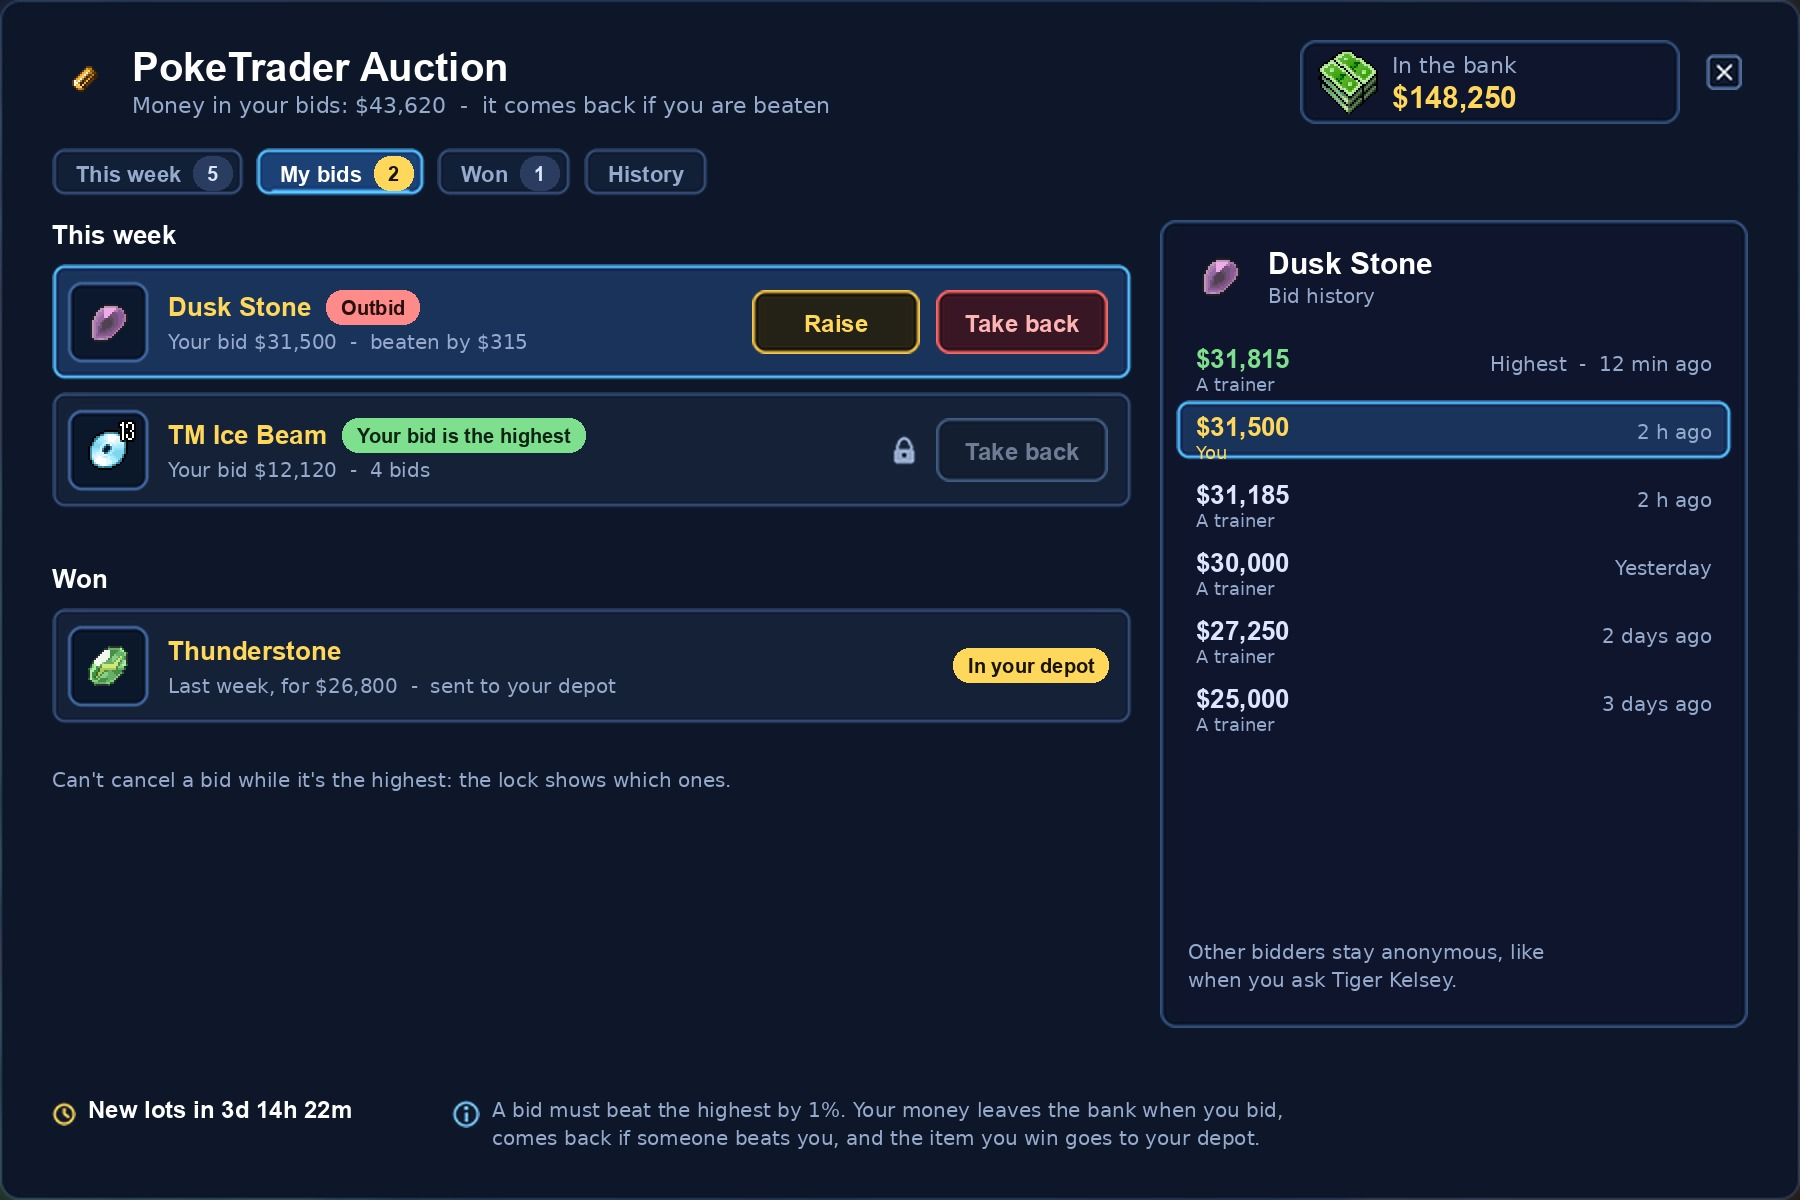
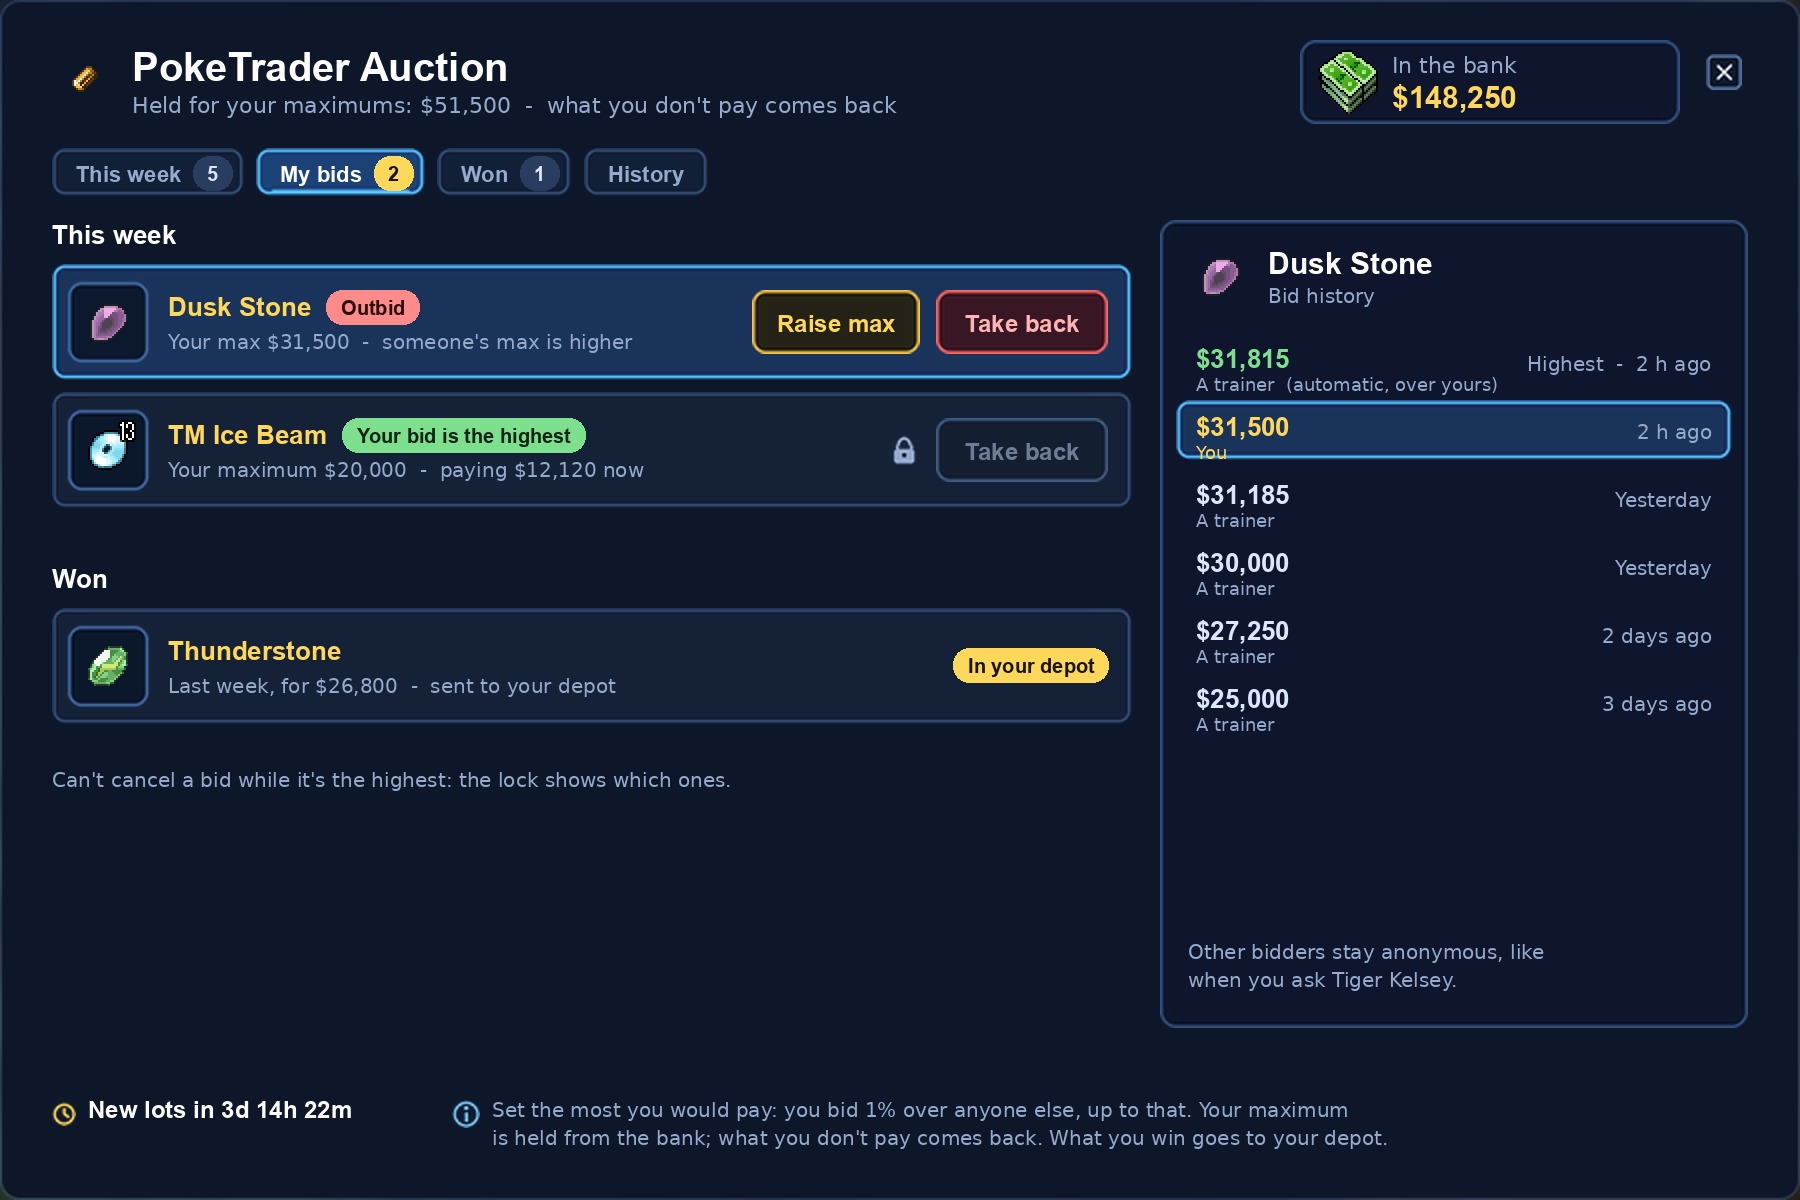
PokeTrader concept: maximum bids that raise themselves 1% at a time

diff --git a/scripts/art/poketrader_concept.py b/scripts/art/poketrader_concept.py
@@ -209,8 +209,8 @@ def footer(p, x, y, w):
     p.picture('game_dailytasks/images/icon_clock', x, y + 3, 12)
     p.text(x + 18, y, 'New lots in 3d 14h 22m', 12, WHITE, 'bold')
     p.picture('game_dailytasks/images/icon_info', x + 200, y + 2, 14)
-    p.text(x + 220, y + 1, 'A bid must beat the highest by 1%. Your money leaves the bank when you bid,', 10, MUTED)
-    p.text(x + 220, y + 15, 'comes back if someone beats you, and the item you win goes to your depot.', 10, MUTED)
+    p.text(x + 220, y + 1, 'Set the most you would pay: you bid 1% over anyone else, up to that. Your maximum', 10, MUTED)
+    p.text(x + 220, y + 15, 'is held from the bank; what you don\'t pay comes back. What you win goes to your depot.', 10, MUTED)
 
 
 def auction(r):
@@ -237,17 +237,17 @@ def auction(r):
     sx, sw = dx + 14, dw - 28
     stat(p, sx, dy + 140, sw, 'Minimum bid', dollars(minimum))
     stat(p, sx, dy + 160, sw, 'Highest bid', dollars(highest), GREEN)
-    stat(p, sx, dy + 180, sw, 'Your bid', dollars(31500), RED)
+    stat(p, sx, dy + 180, sw, 'Your maximum', dollars(31500), RED)
     stat(p, sx, dy + 200, sw, 'Bids', str(bids))
     p.d.line([(sx * S, (dy + 224) * S), ((sx + sw) * S, (dy + 224) * S)], fill='#34507a', width=S)
-    p.text(sx, dy + 234, 'Raise your bid to', 11, MUTED)
+    p.text(sx, dy + 234, 'Your maximum  -  we bid for you, up to this', 11, MUTED)
     p.nine('client_entergame/images/field_focus', sx, dy + 252, sw, 30, 8)
     p.text(sx + 10, dy + 267, dollars(next_bid(highest, minimum)), 13, WHITE, 'bold', 'lm')
-    p.text(sx + sw - 10, dy + 267, 'lowest you can bid', 10, MUTED, anchor='rm')
+    p.text(sx + sw - 10, dy + 267, 'at least', 10, MUTED, anchor='rm')
     qx = sx
     for label in ('Lowest', '+5%', '+10%'):
         qx += p.chip(qx, dy + 290, label) + 6
-    p.button('green', sx, dy + 324, sw, 32, 'Raise bid  (+' + dollars(next_bid(highest, minimum) - 31500) + ')', WHITE)
+    p.button('green', sx, dy + 324, sw, 32, 'Raise maximum  (+' + dollars(next_bid(highest, minimum) - 31500) + ' held)', WHITE)
     p.button('red', sx, dy + 362, sw, 30, 'Take my bid back', '#ffb4b4')
     footer(p, x0, H - 52, x1 - x0)
     p.save(os.path.join(OUT, 'auction.jpg'), BACKDROP)
@@ -258,13 +258,13 @@ def my_bids(r):
     p = Painter(W, H, S, r)
     p.nine('game_dailytasks/images/window', 0, 0, W, H, 24)
     x0, y0, x1 = 26, 24, W - 26
-    header(p, x0, y0, x1 - x0, 'Money in your bids: ' + dollars(31500 + 12120) + '  -  it comes back if you are beaten')
+    header(p, x0, y0, x1 - x0, 'Held for your maximums: ' + dollars(31500 + 20000) + '  -  what you don\'t pay comes back')
     cx = x0
     for label, count, on in (('This week', 5, False), ('My bids', 2, True), ('Won', 1, False), ('History', None, False)):
         cx += p.chip(cx, y0 + 50, label, count, on) + 6
     lx, lw, ly = x0, 540, y0 + 86
     p.text(lx, ly, 'This week', 13, WHITE, 'bold')
-    rows = [(LOTS[0], 'Your bid $31,500  -  beaten by $315', True), (LOTS[1], 'Your bid $12,120  -  4 bids', False)]
+    rows = [(LOTS[0], 'Your max $31,500  -  someone\'s max is higher', True), (LOTS[1], 'Your maximum $20,000  -  paying $12,120 now', False)]
     for i, (lot, note, selected) in enumerate(rows):
         sid, name, kind, minimum, highest, bids, state = lot
         y = ly + 22 + i * 64
@@ -275,7 +275,7 @@ def my_bids(r):
         p.text(lx + 58, y + 33, note, 10, MUTED)
         status_tag(p, lx + 66 + p.width(name, 13, 'bold'), y + 13, state, highest)
         if state == 'outbid':
-            p.button('gold', lx + lw - 190, y + 13, 84, 32, 'Raise', GOLD)
+            p.button('gold', lx + lw - 190, y + 13, 84, 32, 'Raise max', GOLD)
             p.button('red', lx + lw - 98, y + 13, 86, 32, 'Take back', '#ffb4b4')
         else:
             p.button('red', lx + lw - 98, y + 13, 86, 32, 'Take back', '#ffb4b4', off=True)
@@ -297,7 +297,7 @@ def my_bids(r):
     p.item(r['otb'].client_id(sid), dx + 14, dy + 12)
     p.text(dx + 54, dy + 13, name, 15, WHITE, 'bold')
     p.text(dx + 54, dy + 32, 'Bid history', 10, MUTED)
-    history = [(31815, '12 min ago', False), (31500, '2 h ago', True), (31185, '2 h ago', False),
+    history = [(31815, '2 h ago', False), (31500, '2 h ago', True), (31185, 'Yesterday', False),
                (30000, 'Yesterday', False), (27250, '2 days ago', False), (25000, '3 days ago', False)]
     for i, (amount, when, you) in enumerate(history):
         y = dy + 60 + i * 34
@@ -305,7 +305,7 @@ def my_bids(r):
             p.nine('game_fishing/images/row_on', dx + 8, y - 4, dw - 16, 30, 8)
         top = i == 0
         p.text(dx + 18, y + 2, dollars(amount), 13, GREEN if top else (GOLD if you else TEXT), 'bold')
-        p.text(dx + 18, y + 4 + 13, 'You' if you else 'A trainer', 9, GOLD if you else MUTED)
+        p.text(dx + 18, y + 4 + 13, 'You' if you else ('A trainer  (automatic, over yours)' if i == 0 else 'A trainer'), 9, GOLD if you else MUTED)
         p.text(dx + dw - 18, y + 6, ('Highest  -  ' if top else '') + when, 10, MUTED, anchor='ra')
     p.text(dx + 14, dy + dh - 44, 'Other bidders stay anonymous, like', 10, MUTED)
     p.text(dx + 14, dy + dh - 30, 'when you ask Tiger Kelsey.', 10, MUTED)
@@ -336,14 +336,14 @@ def phone(r):
     p.nine('game_fishing/images/panel', dx, dy, dw, dh, 10)
     p.item(r['otb'].client_id(sid), dx + 14, dy + 12, 40)
     p.text(dx + 64, dy + 14, name, 15, WHITE, 'bold')
-    p.text(dx + 64, dy + 34, 'Highest ' + dollars(highest) + '  -  yours ' + dollars(31500), 10, MUTED)
+    p.text(dx + 64, dy + 34, 'Highest ' + dollars(highest) + '  -  your max ' + dollars(31500), 10, MUTED)
     sx, sw = dx + 14, dw - 28
     p.nine('client_entergame/images/field_focus', sx, dy + 70, sw, 40, 8)
     p.text(sx + 12, dy + 90, dollars(next_bid(highest, minimum)), 15, WHITE, 'bold', 'lm')
     qx = sx
     for label in ('Lowest', '+5%', '+10%'):
         qx += p.chip(qx, dy + 120, label) + 8
-    p.button('green', sx, dy + 156, sw, 44, 'Raise bid', WHITE)
+    p.button('green', sx, dy + 156, sw, 44, 'Raise maximum', WHITE)
     p.button('red', sx, dy + 210, sw, 40, 'Take my bid back', '#ffb4b4')
     p.save(os.path.join(OUT, 'phone.jpg'), BACKDROP)
 

diff --git a/docs/concepts/poketrader/README.md b/docs/concepts/poketrader/README.md
@@ -21,6 +21,30 @@ pictures, run `scripts/art/poketrader_concept.py`.
 - Optional: a PokeGear button that opens the window from anywhere, either only to look or also to bid.
   This needs a decision (see the open questions).
 
+## Maximum bids
+
+You don't bid an amount. You set the most you'd pay (your **maximum**), and the auction bids for
+you: always just 1% over the next trainer, never more than your maximum. This is how eBay works.
+
+- When you set a maximum, the price only goes up as far as needed to put you on top: 1% over
+  the current price, or 1% over the second-highest maximum if someone else already has one.
+- When another trainer bids, your bid automatically goes 1% over theirs, until that would pass your
+  maximum. Then they lead, at 1% over your maximum (capped at their own), and you get the outbid
+  message.
+- If two maximums are the same, or within 1% of each other, the one set first keeps the lead.
+- Nobody else sees your maximum. They only see the price.
+- The whole maximum is held from your bank when you set it, so the money is always there, as it is
+  today. When the week ends, the winner pays the price and gets the rest back. Everyone else gets
+  all of their maximum back.
+- You can raise your maximum at any time. You can only lower it, or take your bid back, while
+  someone else is leading.
+- Example: you set $40,000 on a Dusk Stone with a minimum of $25,000. The price is $25,000 and
+  $40,000 is held. Another trainer sets $30,000, and the price jumps to $30,300 with you still
+  leading. A third trainer sets $45,000, and the price becomes $40,400 with them leading. Your
+  $40,000 goes back to your bank.
+- In the chat, "Dusk Stone 40000" sets your maximum, so Tiger Kelsey keeps working without the
+  window.
+
 ## This week
 
 - The window shows one row per lot: the item, what kind of lot it is (rare evolution item,
@@ -29,22 +53,23 @@ pictures, run `scripts/art/poketrader_concept.py`.
 - Each row can carry a tag: **Outbid**, **Your bid is the highest**, **No bids yet**, or
   **You already have one**. The last tag is for the Blue Flute, which each trainer can buy only once;
   that row is greyed out.
-- Clicking a lot shows its details on the right: the minimum bid, the highest bid, your bid and
-  the number of bids. Below them is the bid box, filled in with the lowest bid allowed (the highest
-  bid plus 1%), and buttons to set it to that lowest bid, +5% or +10%.
-- **Place bid** or **Raise bid** shows how much more money will leave your bank.
+- Clicking a lot shows its details on the right: the minimum bid, the highest bid, your maximum
+  and the number of bids. Below them is the maximum box, filled in with the lowest allowed (the
+  price plus 1%), and buttons to set it to that lowest amount, +5% or +10%.
+- **Place bid** or **Raise maximum** shows how much more money will be held from your bank.
   **Take my bid back** only works while your bid is not the highest, which is the same rule as today.
 - The top right shows your bank balance. The bottom shows when the new lots arrive, plus a one-line
   reminder of the rules.
 
 ## My bids
 
-- This tab shows your bids this week. **Raise** is available when you've been outbid. **Take back**
+- This tab shows your bids this week, with your maximum and the price you're paying now.
+  **Raise max** is available when you've been outbid. **Take back**
   is locked while your bid is the highest.
-- The header shows how much money is currently tied up in your bids.
+- The header shows how much money is held for your maximums.
 - **Won** lists the items you've won and says they were sent to your depot.
 - On the right is the bid history of the selected lot: amounts and times, with your own bids
-  highlighted. Other bidders stay anonymous ("A trainer"), just as Tiger Kelsey never names them.
+  highlighted and the automatic ones marked. Other bidders stay anonymous ("A trainer"), just as Tiger Kelsey never names them.
 
 ## History
 
@@ -59,7 +84,7 @@ pictures, run `scripts/art/poketrader_concept.py`.
 
 ## Notifications
 
-- When someone outbids you, you get an orange console message: "You were outbid on the Dusk Stone
+- When someone's maximum beats yours, you get an orange console message: "You were outbid on the Dusk Stone
   ($31,815)". If the window is open, the My bids tab also gets a dot.
 - When the week ends, winners get a message saying the item is in their depot, and the Won tab
   shows it.
@@ -67,22 +92,28 @@ pictures, run `scripts/art/poketrader_concept.py`.
 ## What the server needs
 
 - A JSON extended opcode, like the Bank window uses, with these messages: list the lots, place a
-  bid, raise a bid, take a bid back, and get history. The server keeps all the rules it has now:
+  maximum, raise or lower it, take a bid back, and get history. The server keeps these rules from
+  today:
   - the 1% step;
-  - money taken when you bid;
-  - no cancelling the highest bid;
+  - money taken when you bid (now the whole maximum, with the unpaid part refunded at the end);
+  - no cancelling the leading bid;
   - the depot delivery and the bank refunds;
   - the Blue Flute once per trainer.
-- **Raise** is new. Today a trainer has one bid per item and has to cancel it before bidding again.
-  Raise would replace your bid in one step and take only the difference from your bank.
-- The bid history and the History tab read from the tables that already exist (`poketrader_bids`
-  has a time for each bid, and `poketrader_offerts` lists past lots). The database doesn't change.
-- Outbid messages are new. They are sent when a bid beats yours.
+- Automatic bidding is new. Each new maximum re-prices the lot in one step: the leader is the
+  highest maximum, the price is 1% over the second-highest (capped at the leader's maximum, at
+  least the minimum bid), and the automatic bids are logged for the history.
+- One new column: `poketrader_bids.max_bid` (the held maximum). `bid` stays the price paid so far.
+  The history and the History tab read from the tables that already exist.
+- Raising a maximum replaces your bid in one step and holds only the difference. Today a trainer
+  has to cancel and bid again.
+- Outbid messages are new. They are sent when a maximum beats yours.
+- The NPC's chat words move to the same code, so the window and the chat follow the same rules.
 
 ## Open questions
 
 1. Should players be able to open and bid from anywhere (PokeGear), or only at Tiger Kelsey? A
    middle option: look at the auction from anywhere, but bid only at Tiger Kelsey.
-2. Should Raise be added, or do players keep cancelling and bidding again?
+2. Should a bid in the last 5 minutes add 5 minutes to that lot? Maximum bids make last-second
+   bids matter less, but they can still beat a maximum.
 3. Should the bid history show amounts only (as in the picture), or also the bidders' names?
 4. Should the History tab go back a few weeks, or all the way?
